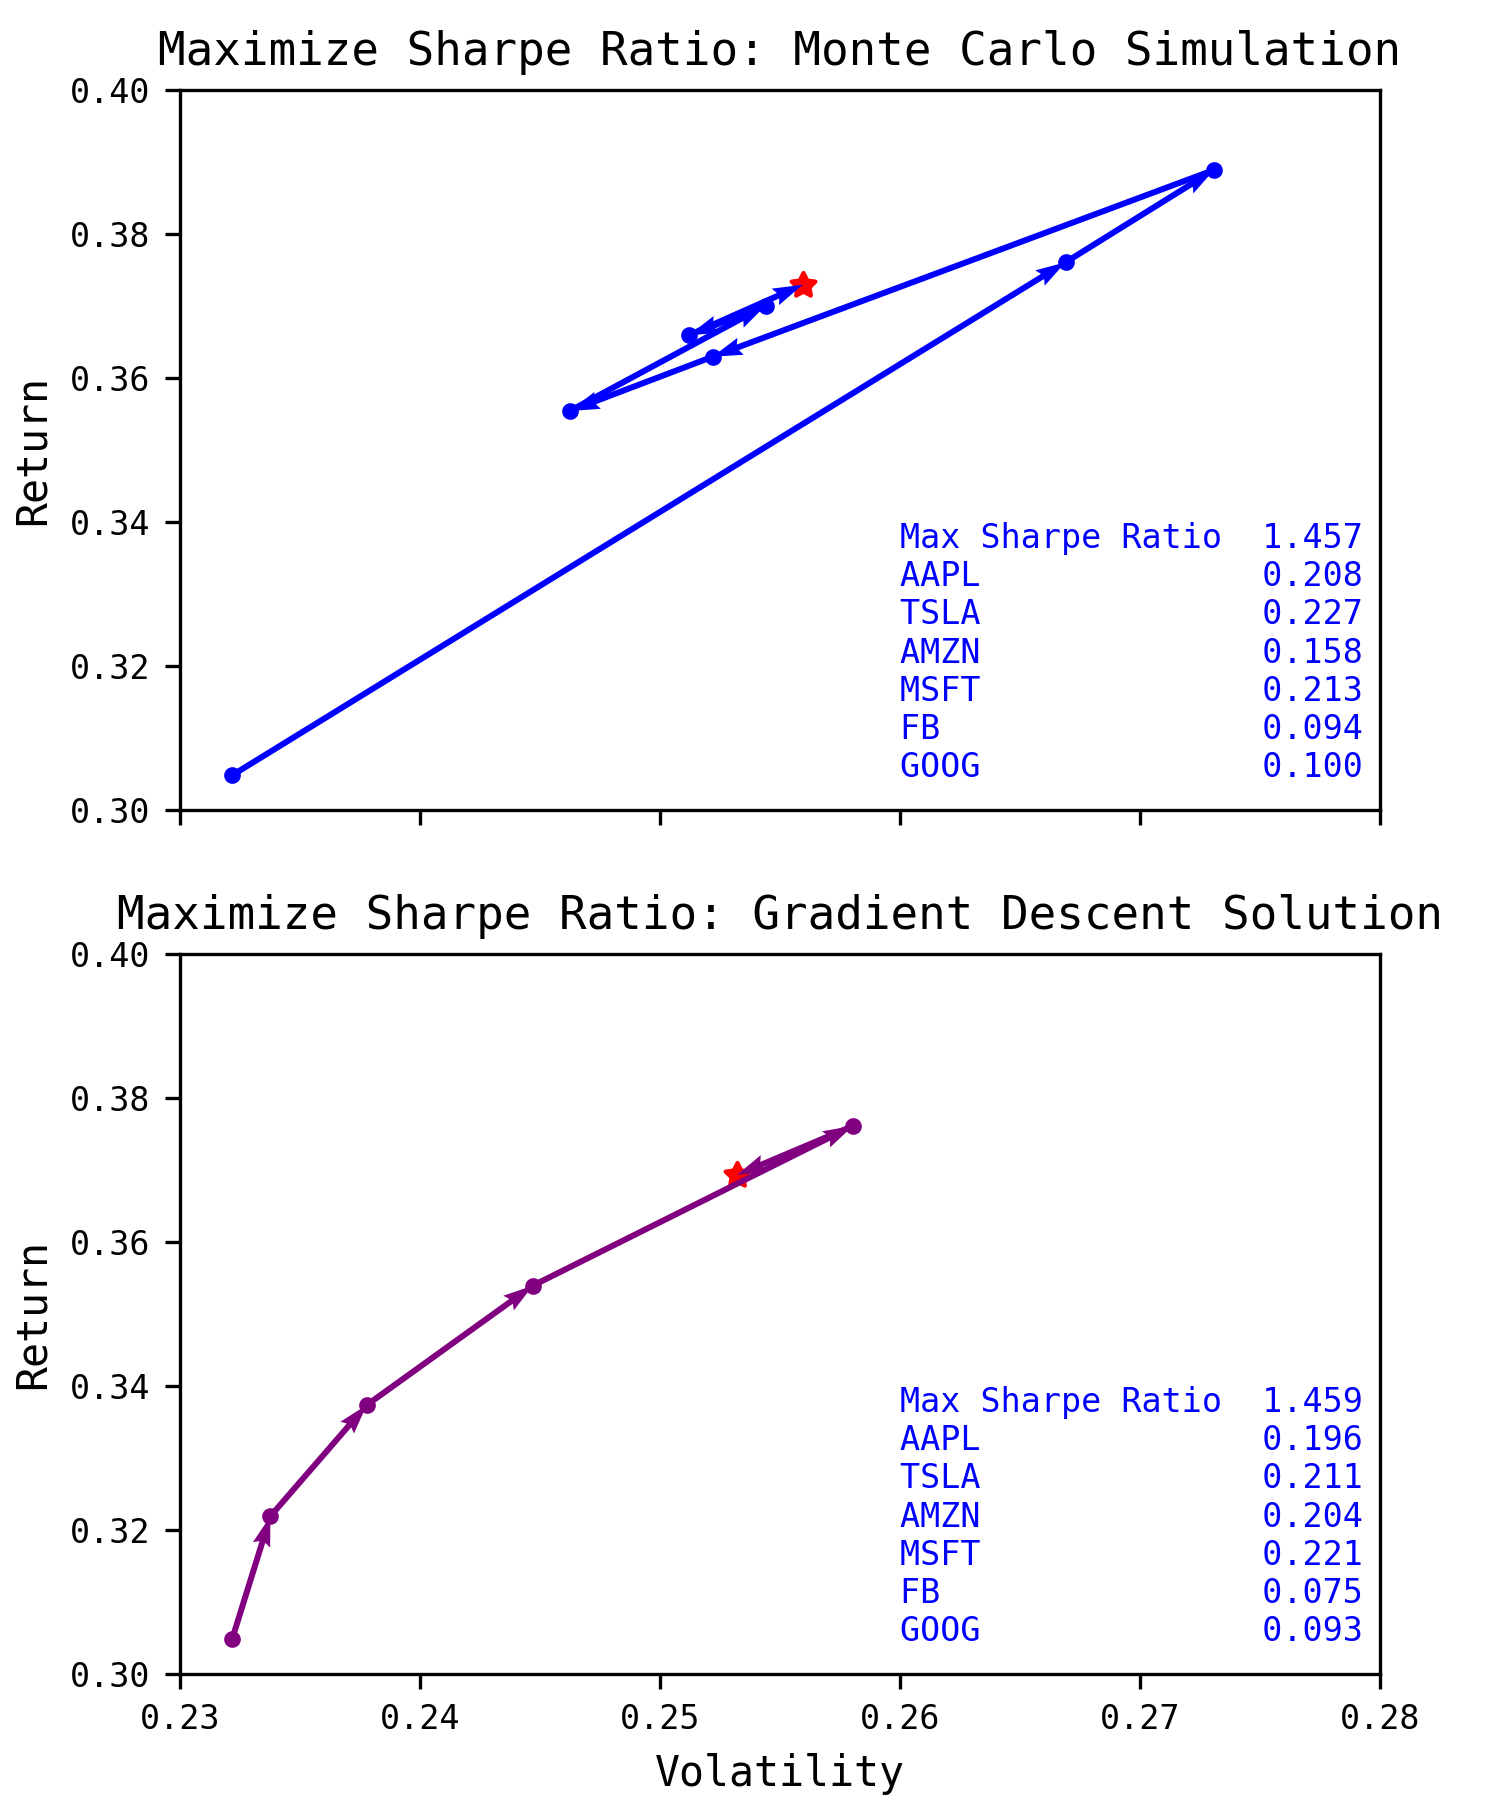
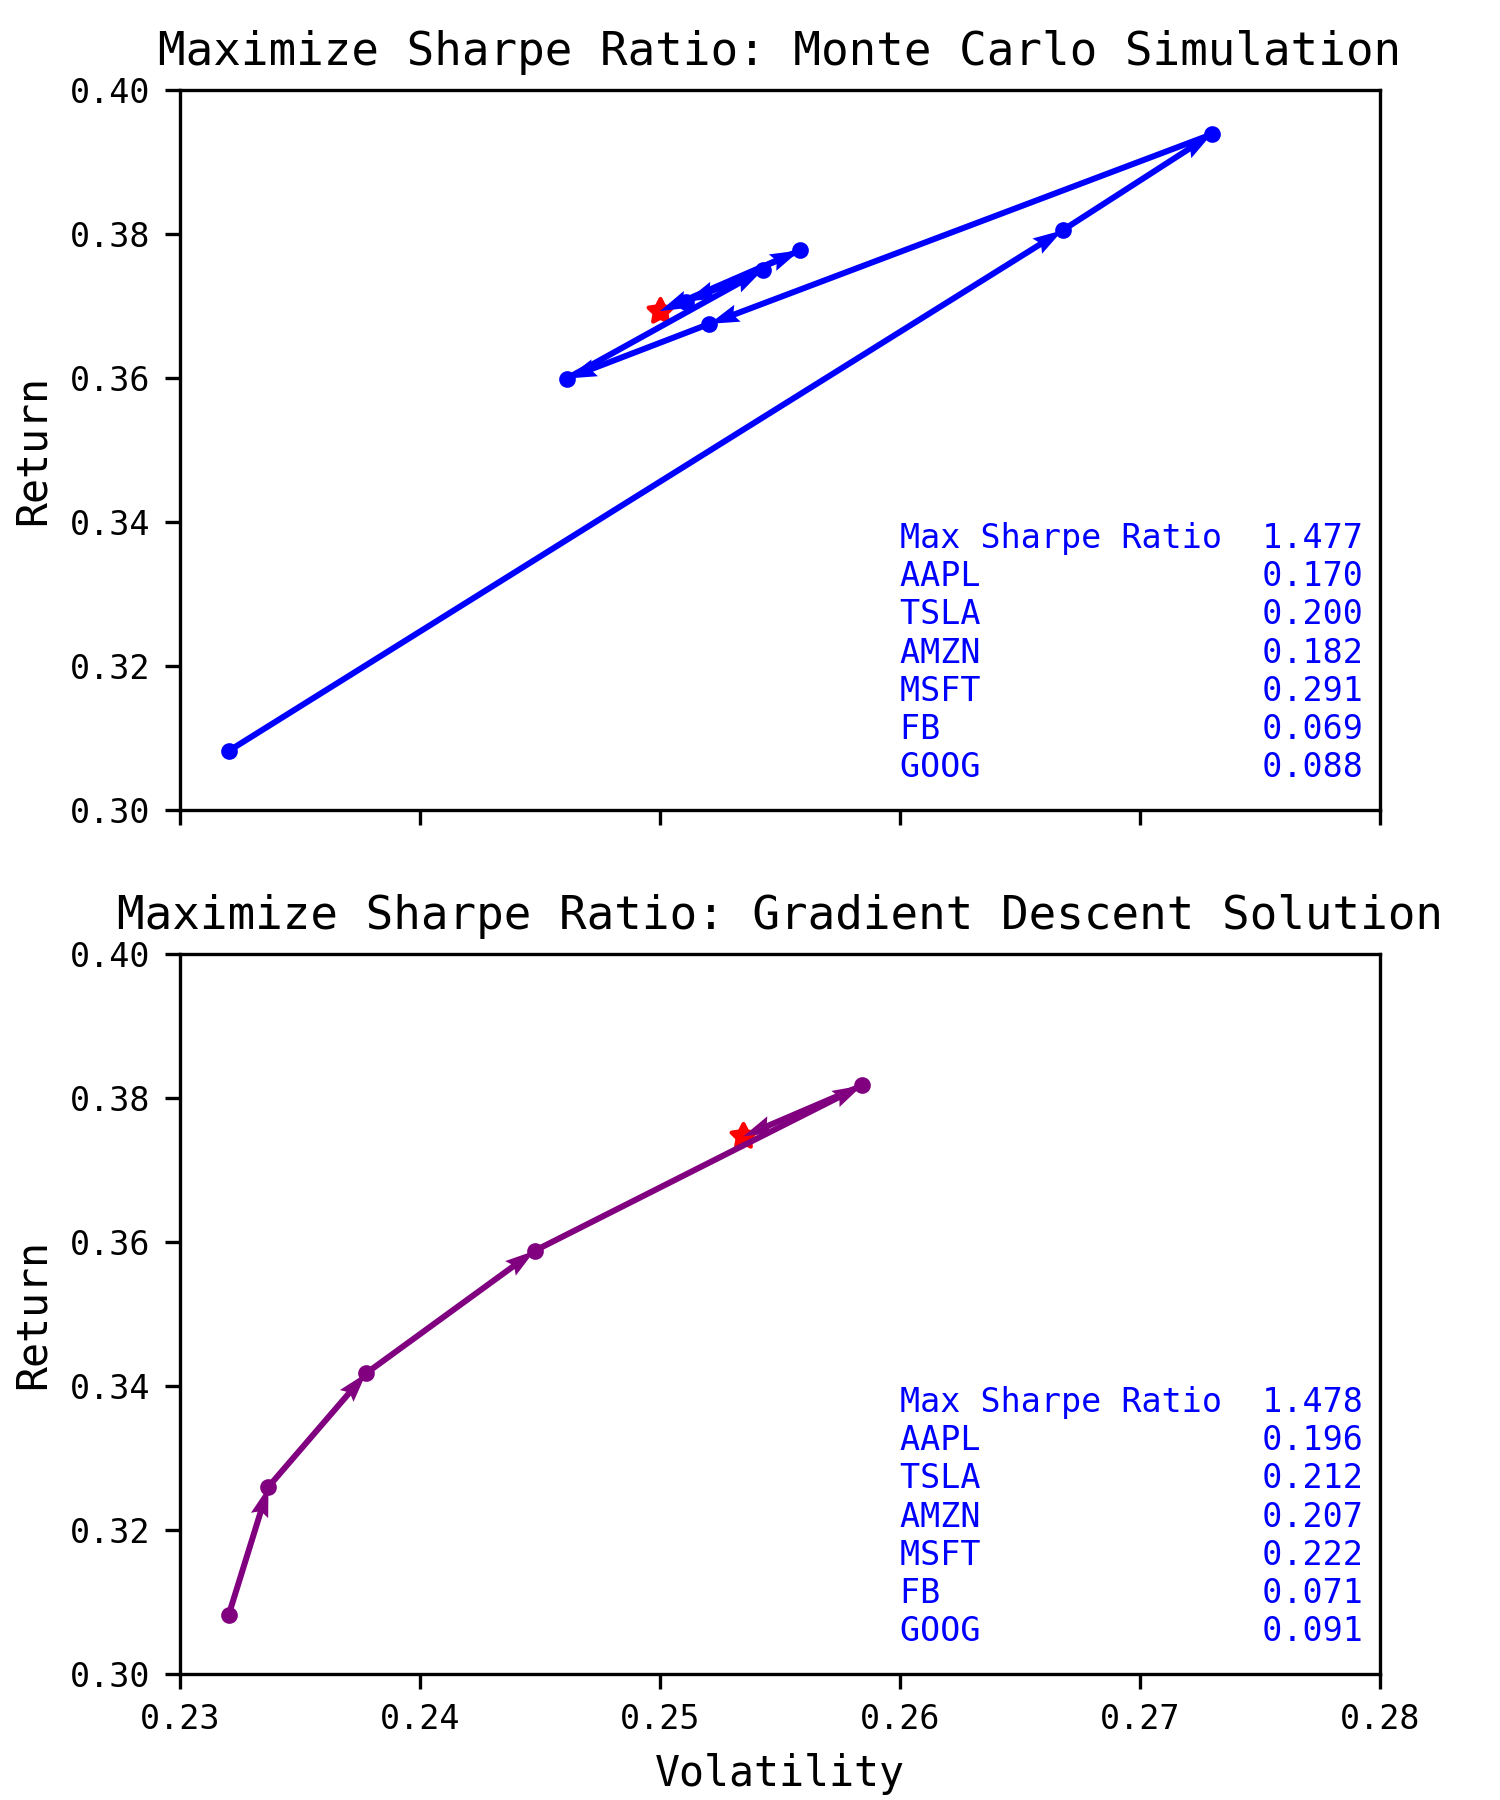
update data

diff --git a/portfolio_visualize.py b/portfolio_visualize.py
@@ -94,8 +94,8 @@ class PortfolioVisualize:
                     "Portfolios Simulation": 100000,
                     "Learning Rate Gradient Descent": 0.05,
                     "SR Simulation": 1.55,
-                    "SR Gradient Descent": 1.55,
-                    "Time Simulation": 40.9,
+                    "SR Gradient Descent": 1.56,
+                    "Time Simulation": 39.9,
                     "Time Gradient Descent": 0.03
                 },
                 {
@@ -103,27 +103,27 @@ class PortfolioVisualize:
                     "Portfolios Simulation": 200000,
                     "Learning Rate Gradient Descent": 0.05,
                     "SR Simulation": 1.70,
-                    "SR Gradient Descent": 1.71,
-                    "Time Simulation": 71.0,
-                    "Time Gradient Descent": 2.5
+                    "SR Gradient Descent": 1.79,
+                    "Time Simulation": 67.1,
+                    "Time Gradient Descent": 0.03
                 },
                 {
                     "Assets": 50,
                     "Portfolios Simulation": 500000,
                     "Learning Rate Gradient Descent": 0.05,
-                    "SR Simulation": 1.55,
-                    "SR Gradient Descent": 1.58,
-                    "Time Simulation": 203.9,
-                    "Time Gradient Descent": 4.1
+                    "SR Simulation": 1.54,
+                    "SR Gradient Descent": 1.87,
+                    "Time Simulation": 204.1,
+                    "Time Gradient Descent": 0.12
                 },
                 {
                     "Assets": 100,
                     "Portfolios Simulation": 1000000,
                     "Learning Rate Gradient Descent": 0.05,
-                    "SR Simulation": 1.41,
-                    "SR Gradient Descent": 1.51,
-                    "Time Simulation": 459.5,
-                    "Time Gradient Descent": 0.24,
+                    "SR Simulation": 1.42,
+                    "SR Gradient Descent": 1.93,
+                    "Time Simulation": 394.7,
+                    "Time Gradient Descent": 0.26,
                 }
             ]
         df = pd.DataFrame(data)

diff --git a/main.py b/main.py
@@ -16,7 +16,7 @@ if __name__ == "__main__":
     # convert daily stock prices into daily returns
     data = PortfolioOptimization.load_stock_data(stocks)
     # set number of runs of random portfolio weights
-    num_portfolios = 100
+    num_portfolios = 1000
     t0 = time.time()
     results, initial_weights, best_indices = PortfolioOptimization.optimize_portfolio_by_simulation(
         df_stocks=data, n_portfolios=num_portfolios)
@@ -24,14 +24,13 @@ if __name__ == "__main__":
     g_results = PortfolioOptimization.optimize_portfolio_gradient_descent(
         data, initial_weights, delta=0.05)
     t2 = time.time()
-    sci_results = PortfolioOptimization.optimize_portfolio_scipy(data)
+    sr_sci, weights_sci = PortfolioOptimization.optimize_portfolio_scipy(data)
     t3 = time.time()
-    print("simulation cal time {}".format(t1 - t0))
-    print("gradient descent cal time {}".format(t2 - t1))
-    print("scipy cal time {}".format(t3 - t2))
-    print("best sharpe ratio by gradient descent: ", g_results[-1, 2])
-    print(sci_results)
-    print(g_results[-1, 3:])
+    print("simulation cpu time {}".format(t1 - t0))
+    print("gradient descent cpu time {}".format(t2 - t1))
+    print("scipy cpu time {}".format(t3 - t2))
+    print("best sharpe ratio by gradient descent: {}, weights {}".format(g_results[-1, 2], g_results[-1, 3:]))
+    print("best sharpe ratio by scipy: {}, weights {}".format(sr_sci, weights_sci))
 
     # convert results array to Pandas DataFrame
     cols = ['ret', 'stdev', 'sharpe'] + stocks
@@ -42,4 +41,5 @@ if __name__ == "__main__":
     # locate position of portfolio with minimum standard deviation
     min_vol_port = results_frame.iloc[results_frame['stdev'].idxmin()]
     PortfolioVisualize.visualize(results_frame, best_indices, g_results, max_sharpe_port, stocks)
-    # PortfolioVisualize.visualize_simulation(results_frame, max_sharpe_port, min_vol_port)
+    PortfolioVisualize.visualize_simulation(results_frame, max_sharpe_port, min_vol_port)
+    PortfolioVisualize.plot_benchmark_table()

diff --git a/porfolio_other_optimizations.py b/porfolio_other_optimizations.py
@@ -14,8 +14,8 @@ def maximize_sharpe_ratio_scipy(mean_returns, covar_returns, risk_free_rate, n_p
     def f_sr(w, mean_ret, cov_ret, risk_free):
         _std_dev = np.sqrt(np.matmul(np.matmul(w, cov_ret), w.T))
         _ret = np.matmul(np.array(mean_ret), w.T) - risk_free
-        func = - np.sqrt(252) * (_ret / _std_dev)
-        return func
+        _sr = - np.sqrt(252) * (_ret / _std_dev)
+        return _sr
 
     mean_returns = mean_returns.values
     covar_returns = covar_returns.values
@@ -36,7 +36,8 @@ def maximize_sharpe_ratio_scipy(mean_returns, covar_returns, risk_free_rate, n_p
     # invoke minimize solver
     opt = optimize.minimize(f_sr, x0=x_init, args=(mean_returns, covar_returns, risk_free_rate),
                             method='SLSQP', bounds=_bounds, constraints=cons, tol=1.e-16)
-    return opt
+    _sr, _w = -opt.fun, opt.x.flatten()
+    return _sr, _w
 
 
 def maximize_sharpe_ratio_valentyn(mean_returns, covar_returns, risk_free_rate, n_portfolios):

diff --git a/portfolio_optimize.py b/portfolio_optimize.py
@@ -123,8 +123,8 @@ class PortfolioOptimization:
         mean_ret = returns.mean()
         cov = returns.cov()
         n_stocks = len(df_stocks.columns)
-        r = maximize_sharpe_ratio_scipy(mean_ret, cov, 0, n_stocks)
-        return r
+        _sr, _w = maximize_sharpe_ratio_scipy(mean_ret, cov, 0, n_stocks)
+        return _sr, _w
 
 
 if __name__ == "__main__":
